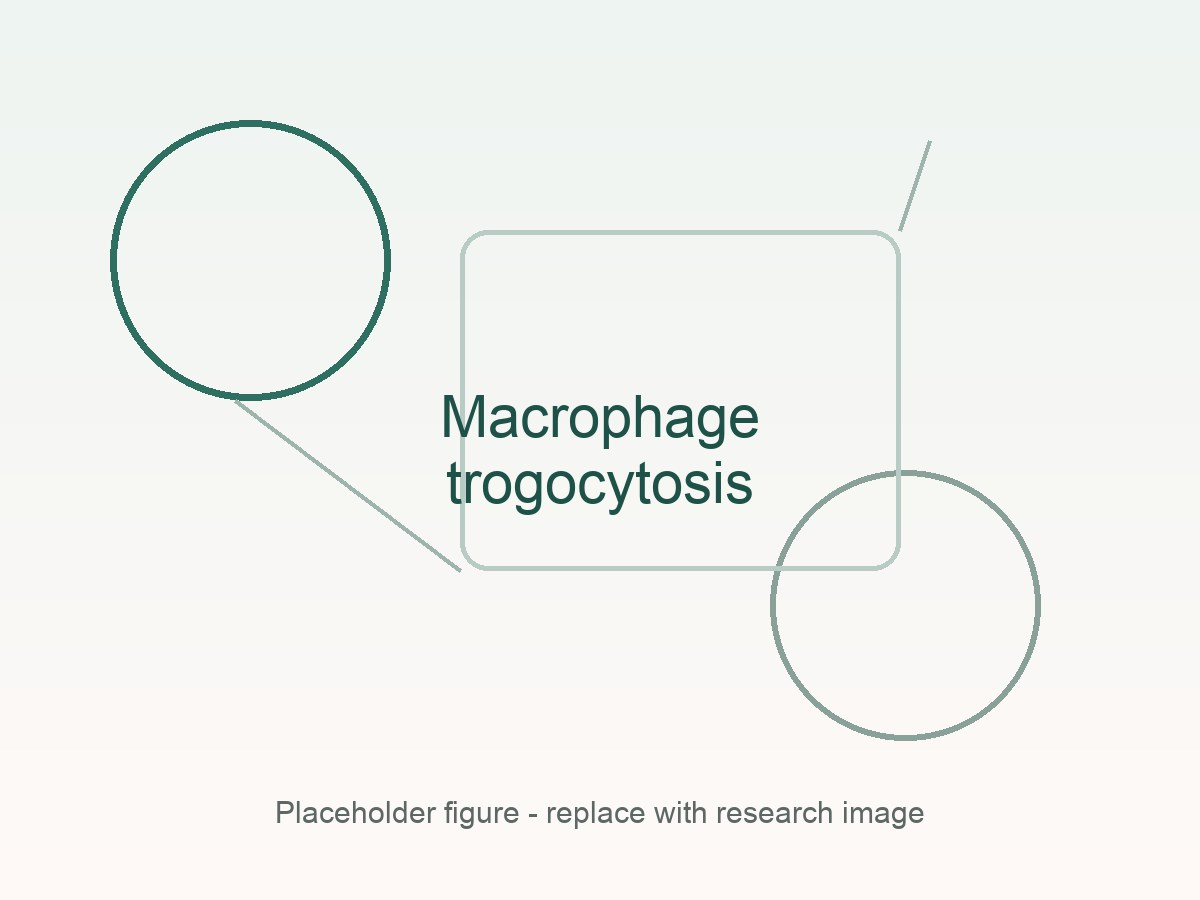
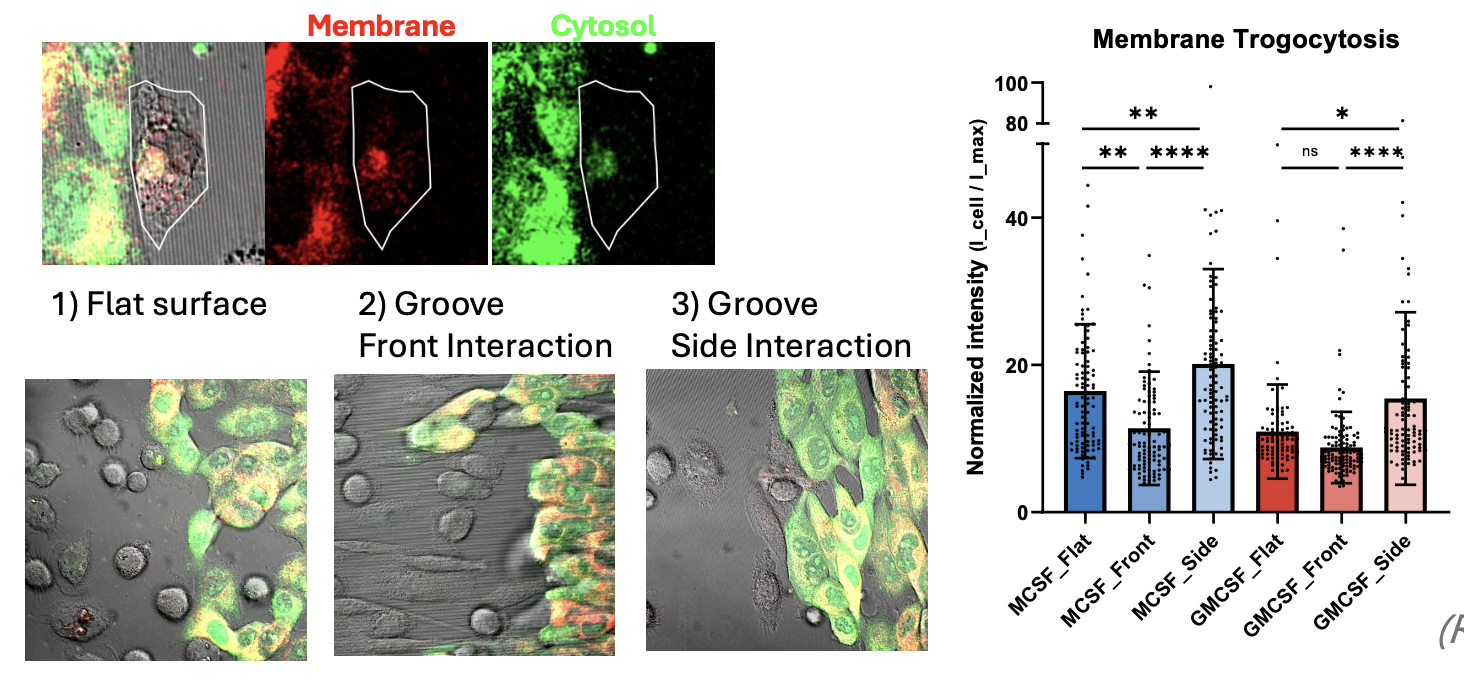
Update research images and editing guide

diff --git a/index.html b/index.html
@@ -120,8 +120,7 @@
         </div>
         <div class="project-grid">
           <article class="project-card">
-            <!-- TODO: Replace with an actual project figure: assets/images/research/phagocytosis.jpg. -->
-            <img src="assets/images/research/phagocytosis.jpg" alt="" loading="lazy">
+            <img src="assets/images/research/phagocytosis.jpg" alt="Macrophage phagocytosis analysis" loading="lazy">
             <div class="card-body">
               <p class="status">Master's Thesis</p>
               <h3>Quantitative Analysis of the Phagocytic Behaviors of Macrophages in Various Biochemical/Biophysical Environments</h3>
@@ -136,8 +135,7 @@
           </article>
 
           <article class="project-card">
-            <!-- TODO: Replace with an actual project figure: assets/images/research/trogocytosis.jpg. -->
-            <img src="assets/images/research/trogocytosis.jpg" alt="" loading="lazy">
+            <img src="assets/images/research/trogocytosis.jpg" alt="Macrophage trogocytosis during cancer cell interactions" loading="lazy">
             <div class="card-body">
               <p class="status">Research in progress</p>
               <h3>Spatial and Physical Regulation of Macrophage Trogocytosis during Interactions with Cancer Cells</h3>
@@ -152,8 +150,7 @@
           </article>
 
           <article class="project-card">
-            <!-- TODO: Replace with an actual project figure: assets/images/research/mps.jpg. -->
-            <img src="assets/images/research/mps.jpg" alt="" loading="lazy">
+            <img src="assets/images/research/mps.jpg" alt="3D microphysiological system for immunotherapy evaluation" loading="lazy">
             <div class="card-body">
               <p class="status">Research in progress</p>
               <h3>Development of 3D Microphysiological Systems for the Safety Evaluation of Immunotherapies</h3>

diff --git a/assets/css/style.css b/assets/css/style.css
@@ -299,9 +299,10 @@ ol {
 
 .project-card img {
   width: 100%;
-  aspect-ratio: 4 / 3;
-  object-fit: cover;
-  background: var(--surface-strong);
+  aspect-ratio: 16 / 10;
+  padding: 0.75rem;
+  object-fit: contain;
+  background: var(--surface);
   border-bottom: 1px solid var(--line);
 }
 

diff --git a/WEBSITE_EDITING_GUIDE_KR.md b/WEBSITE_EDITING_GUIDE_KR.md
@@ -1,0 +1,305 @@
+# Yoojin Lee 웹사이트 수정 가이드
+
+이 문서는 Yoojin Lee 개인 연구 웹사이트를 나중에 수정하거나 Codex에게 수정 요청할 때 참고하기 위한 한글 관리 문서입니다.
+
+## 1. 프로젝트 개요
+
+- 웹사이트 목적: Yoojin Lee의 개인 연구 웹사이트
+- GitHub Pages 주소: <https://yjinbio.github.io/>
+- GitHub 저장소: <https://github.com/yjinbio/yjinbio.github.io>
+- 로컬 작업 디렉토리: `~/Desktop/yoojin`
+- 웹사이트 본문 콘텐츠 언어: 주로 polished academic English
+- 관리/수정 안내 문서 언어: 한국어
+
+이 웹사이트는 Bioengineering, Immunology, Biomaterials, Immunoengineering 분야 연구자 프로필에 맞춘 정적 GitHub Pages 사이트입니다. 별도 빌드 과정 없이 `index.html`, CSS, 이미지, PDF 파일만으로 동작합니다.
+
+## 2. 주요 파일 구조 설명
+
+```text
+~/Desktop/yoojin/
+  index.html
+  README.md
+  WEBSITE_EDITING_GUIDE_KR.md
+  assets/
+    css/
+      style.css
+    files/
+      Yoojin_Lee_CV.pdf
+    images/
+      profile/
+        yoojin-lee.jpg
+      research/
+        phagocytosis.jpg
+        trogocytosis.jpg
+        mps.jpg
+```
+
+### `index.html`
+
+웹사이트의 메인 콘텐츠 파일입니다. 브라우저에서 보이는 대부분의 텍스트와 섹션 구조가 이 파일에 들어 있습니다.
+
+포함된 주요 섹션:
+
+- Landing / Hero
+- About
+- Research Interests
+- News
+- Research Projects
+- Education
+- Research Experience
+- Conferences
+- Patent
+- Skills
+- Contact
+
+웹사이트 문구, 링크, 섹션 순서, 항목 추가/삭제는 대부분 `index.html`에서 수정합니다.
+
+### `assets/css/style.css`
+
+전체 디자인과 레이아웃을 담당하는 CSS 파일입니다.
+
+주요 역할:
+
+- 글꼴, 색상, 간격, 배경색
+- 데스크톱/모바일 반응형 레이아웃
+- 상단 navigation 스타일
+- hero/profile 영역 스타일
+- 프로필 사진 크기와 둥근 모서리 스타일
+- Research Project 카드 스타일
+- Contact 링크 버튼 스타일
+
+디자인, 배치, 모바일 표시, 이미지 크기 문제는 주로 이 파일에서 수정합니다.
+
+### `assets/images/profile/yoojin-lee.jpg`
+
+웹사이트 상단 hero/profile 영역에 표시되는 프로필 사진입니다.
+
+사진을 교체할 때는 같은 파일명으로 덮어쓰면 `index.html`을 수정하지 않아도 됩니다.
+
+### `assets/images/research/`
+
+Research Projects 섹션에 표시되는 연구 프로젝트 이미지가 들어 있는 폴더입니다.
+
+현재 주요 이미지 경로:
+
+- `assets/images/research/phagocytosis.jpg`
+- `assets/images/research/trogocytosis.jpg`
+- `assets/images/research/mps.jpg`
+
+필요할 때 실제 연구 도식, 현미경 이미지, 실험 플랫폼 이미지 등으로 교체할 수 있습니다.
+
+### `assets/files/Yoojin_Lee_CV.pdf`
+
+웹사이트의 CV 링크에 연결되는 공개용 CV 파일입니다.
+
+중요: 이 파일은 웹사이트 방문자가 열람할 수 있는 공개 파일입니다. 공개용 CV에는 전화번호 등 민감한 개인정보를 제거하는 것을 권장합니다.
+
+### `README.md`
+
+프로젝트의 기본 설명, 로컬 실행 방법, GitHub Pages 배포 방법을 담은 영문 안내 문서입니다.
+
+저장소를 처음 보는 사람이나 GitHub Pages 배포 절차를 확인할 때 참고합니다.
+
+## 3. 자주 수정할 항목별 안내
+
+### 자기소개 문구 수정
+
+수정 파일: `index.html`
+
+About 섹션의 문단을 수정하면 됩니다. 웹사이트 본문은 영어로 유지하고, 학술적이면서 간결한 톤을 권장합니다.
+
+### Research Interests 수정
+
+수정 파일: `index.html`
+
+`Research Interests` 섹션의 bullet list를 수정합니다. 관심 분야는 너무 길게 쓰기보다 핵심 키워드 중심으로 유지하는 것이 좋습니다.
+
+### News 항목 추가/수정
+
+수정 파일: `index.html`
+
+`News` 또는 `Recent Updates` 섹션의 timeline list에 항목을 추가하거나 수정합니다. 날짜 형식은 기존과 비슷하게 `Nov. 2025`, `Apr. 2025`처럼 유지합니다.
+
+### Research Projects 수정
+
+수정 파일: `index.html`
+
+`Selected Projects` 섹션의 project card를 수정합니다. 각 프로젝트는 보통 다음 정보를 포함합니다.
+
+- Title
+- Status
+- Description
+- Keywords
+- Image
+
+프로젝트 설명은 polished academic English로 작성하고, 연구 성과를 과장하지 않도록 주의합니다.
+
+### Education 수정
+
+수정 파일: `index.html`
+
+`Education` 섹션에서 학교명, 학위명, 기간, 위치를 수정합니다. CV와 불일치하지 않게 관리하는 것이 중요합니다.
+
+### Research Experience 수정
+
+수정 파일: `index.html`
+
+`Research Experience` 섹션의 연구실, 직함, 기간, 지도교수, 주요 업무 bullet을 수정합니다. 경력 기간과 소속명은 CV와 일치시키는 것을 권장합니다.
+
+### Conferences 추가
+
+수정 파일: `index.html`
+
+`Conferences` 섹션에 새 conference entry를 추가합니다. 발표 제목, 발표 형식, 장소, 날짜를 확인한 뒤 추가합니다.
+
+### Patent 정보 수정
+
+수정 파일: `index.html`
+
+`Patent` 섹션에서 특허 제목, 역할, 출원 상태, 기관, 연도를 수정합니다. 출원번호나 등록번호를 공개해도 되는지 먼저 확인하는 것이 좋습니다.
+
+### Skills 수정
+
+수정 파일: `index.html`
+
+`Skills` 섹션에서 Laboratory, Programming, Languages 항목을 수정합니다. 과도하게 긴 목록보다는 연구 포지션 지원에 유용한 핵심 기술을 유지하는 것이 좋습니다.
+
+### 프로필 사진 교체
+
+수정 파일:
+
+- `assets/images/profile/yoojin-lee.jpg`
+- 필요 시 `assets/css/style.css`
+
+새 사진을 같은 경로와 파일명으로 교체하면 됩니다. 사진 비율이 크게 바뀌어 얼굴이 잘리거나 모바일에서 어색하게 보이면 `assets/css/style.css`의 `.profile-photo` 스타일을 조정합니다.
+
+### CV PDF 교체
+
+수정 파일: `assets/files/Yoojin_Lee_CV.pdf`
+
+새 공개용 CV 파일을 같은 이름으로 덮어쓰면 됩니다. 파일명이나 경로를 바꾸는 경우에는 `index.html`의 CV 링크도 함께 수정해야 합니다.
+
+### Google Scholar / ORCID 링크 추가
+
+수정 파일: `index.html`
+
+hero 영역의 profile links 근처에 있는 Google Scholar / ORCID placeholder를 실제 링크로 바꾸면 됩니다. Contact 영역에도 같은 스타일로 추가할 수 있습니다.
+
+### 연구 이미지 교체
+
+수정 파일:
+
+- `assets/images/research/phagocytosis.jpg`
+- `assets/images/research/trogocytosis.jpg`
+- `assets/images/research/mps.jpg`
+- 필요 시 `assets/css/style.css`
+
+같은 파일명으로 이미지를 교체하면 `index.html` 수정 없이 반영됩니다. 이미지가 잘리거나 비율이 어색하면 `.project-card img` 스타일을 조정합니다.
+
+## 4. 로컬 미리보기 방법
+
+터미널에서 다음 명령어를 실행합니다.
+
+```bash
+cd ~/Desktop/yoojin
+python3 -m http.server 8000
+```
+
+브라우저에서 다음 주소를 엽니다.
+
+```text
+http://localhost:8000
+```
+
+포트 `8000`이 이미 사용 중이면 다른 포트를 사용할 수 있습니다.
+
+```bash
+python3 -m http.server 8001
+```
+
+이 경우 브라우저에서 다음 주소를 엽니다.
+
+```text
+http://localhost:8001
+```
+
+## 5. GitHub Pages 업데이트 방법
+
+수정 후 배포할 때는 다음 명령어를 사용합니다.
+
+```bash
+cd ~/Desktop/yoojin
+git status
+git add .
+git commit -m "Update website"
+git push
+```
+
+`git push`가 완료된 뒤 보통 몇 분 안에 GitHub Pages 사이트에 반영됩니다.
+
+배포 주소:
+
+```text
+https://yjinbio.github.io/
+```
+
+반영이 늦어지는 경우 GitHub 저장소의 Actions 또는 Pages 설정에서 배포 상태를 확인합니다.
+
+## 6. 개인정보 주의사항
+
+- 전화번호는 웹사이트에 노출하지 않는 것을 권장합니다.
+- CV PDF에 전화번호가 들어 있으면 웹사이트 방문자가 해당 정보를 볼 수 있습니다.
+- 공개용 CV는 전화번호 제거 버전을 사용하는 것을 권장합니다.
+- 원본 CV나 Research Summary PDF를 프로젝트 루트 디렉토리에 그대로 두면 `git add .` 실행 시 GitHub에 올라갈 수 있으므로 주의해야 합니다.
+- 공개하고 싶지 않은 파일은 git에 추가하지 않거나 `.gitignore`에 넣어야 합니다.
+- 이메일, LinkedIn, CV처럼 공개해도 되는 정보만 웹사이트에 표시하는 것이 좋습니다.
+- 특허 출원번호, 논문 원고, 미공개 연구 이미지 등은 공개 가능 여부를 확인한 뒤 올려야 합니다.
+
+## 7. Codex 수정 요청 예시 프롬프트
+
+### 예시 1: News 추가
+
+```text
+WEBSITE_EDITING_GUIDE_KR.md를 참고해서 웹사이트를 수정해주세요. index.html의 News 섹션에 다음 항목을 추가해주세요: [날짜]: [내용]. 기존 스타일과 톤을 유지하고, 수정 후 한국어로 변경 파일을 요약해주세요.
+```
+
+### 예시 2: Research project 수정
+
+```text
+Research Projects 섹션에서 [프로젝트명] 설명을 다음 내용으로 자연스럽게 다듬어주세요: [내용]. 학술적이고 간결한 영어 문체를 유지해주세요.
+```
+
+### 예시 3: CV 교체
+
+```text
+assets/files/Yoojin_Lee_CV.pdf를 새 공개용 CV로 교체했습니다. CV 링크가 정상적으로 연결되는지 확인하고 README 또는 관련 설명이 필요하면 업데이트해주세요.
+```
+
+### 예시 4: 프로필 사진 교체
+
+```text
+assets/images/profile/yoojin-lee.jpg를 새 사진으로 교체했습니다. 이미지 비율과 모바일 표시가 자연스러운지 확인하고 필요한 CSS를 조정해주세요.
+```
+
+### 예시 5: Google Scholar / ORCID 추가
+
+```text
+Google Scholar 링크와 ORCID 링크를 추가해주세요. hero/contact 영역에 Email, LinkedIn, CV와 같은 스타일로 자연스럽게 배치해주세요.
+```
+
+### 예시 6: 전체 점검
+
+```text
+웹사이트 전체를 점검해주세요. 모바일 반응형, 링크 동작, 오타, 중복 정보, 개인정보 노출 여부를 확인하고 필요한 최소 수정만 반영해주세요.
+```
+
+## 8. 작업 원칙
+
+- 제공되지 않은 논문, 수상, 소속, 링크는 임의로 만들지 않습니다.
+- 웹사이트 본문은 polished academic English를 유지합니다.
+- 작업 요약과 설명은 한국어로 작성합니다.
+- 미니멀하고 학술적인 스타일을 유지합니다.
+- 불필요한 외부 스크립트나 무거운 프레임워크를 추가하지 않습니다.
+- 전화번호 등 민감한 개인정보는 새로 노출하지 않습니다.
+- 기존 디자인과 파일 구조를 크게 바꾸기보다 필요한 부분만 정확히 수정합니다.
+- 배포 전에는 로컬 미리보기로 링크, 이미지, 모바일 표시를 확인하는 것을 권장합니다.

diff --git a/README.md b/README.md
@@ -46,11 +46,11 @@ git push -u origin main
 - `assets/css/style.css`: Site styling and responsive layout.
 - `assets/files/Yoojin_Lee_CV.pdf`: Public CV link used by the website.
 - `assets/images/profile/yoojin-lee.jpg`: Profile photo used in the landing section.
-- `assets/images/research/`: Placeholder folder for future research figures.
+- `assets/images/research/`: Research project images used in the project cards.
 
 ## Manual Updates Still Needed
 
-- Replace the research placeholder images:
+- Replace the research project images as needed:
   - `assets/images/research/phagocytosis.jpg`
   - `assets/images/research/trogocytosis.jpg`
   - `assets/images/research/mps.jpg`